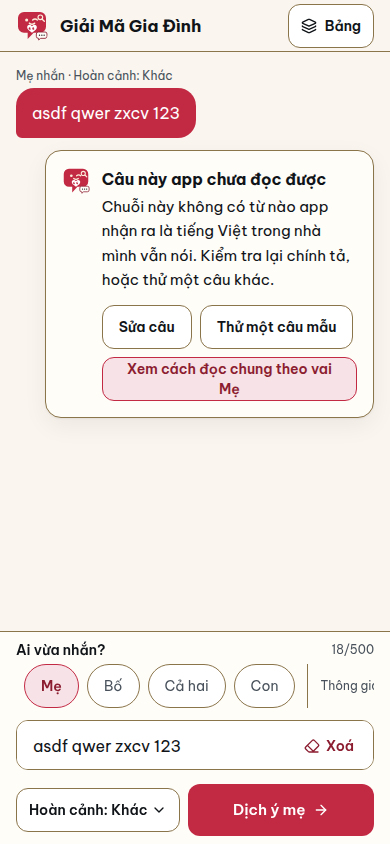
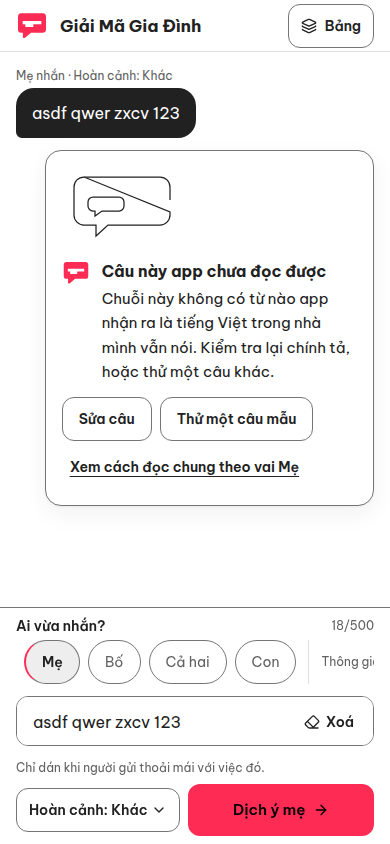
docs: screenshot pack re-shot on live v1.4.1 + README label fixes (S-1/S-2)

diff --git a/README.md b/README.md
@@ -38,7 +38,7 @@ tiếng Việt, deterministic** — không gọi AI bên ngoài, không cần đ
 
 ## 📸 Screenshots
 
-Ảnh chụp trực tiếp từ bản live https://dichbome.vercel.app (redesign «Sân Khấu Hội Thoại») — mọi ảnh đều là app thật đang chạy với kết quả giải mã thật trên màn hình.
+Ảnh chụp trực tiếp từ bản live https://dichbome.vercel.app (redesign V4 — accent TikTok #FE2C55 trên canvas trung tính, bản v1.4.1) — mọi ảnh đều là app thật đang chạy với kết quả giải mã thật trên màn hình.
 
 ![Sân khấu hội thoại trên mobile: bong bóng câu gốc và phiếu giải mã có nhãn nguồn “Máy chủ”, ý thật, điều mẹ muốn nghe và mức căng thẳng 3/5](docs/screenshots/dichbome-mobile.png)
 
@@ -46,7 +46,7 @@ _Phiếu giải mã ngay dưới bong bóng câu gốc: nhãn nguồn cho biết
 
 ![Bản desktop: sân khấu giải mã bên trái, Bảng (câu mẫu, đã lưu, lịch sử) cố định ở cột phải](docs/screenshots/dichbome-desktop.png)
 
-_Desktop: sân khấu ở giữa, cột Bảng bên phải luôn hiện thư viện câu mẫu và các tab Đã lưu / Lịch sử._
+_Desktop: sân khấu bên trái, cột Bảng bên phải luôn hiện thư viện câu mẫu và các tab Đã lưu / Lịch sử._
 
 ![Phiếu giải mã cho câu của mẹ chồng trong hoàn cảnh ở chung, mức căng thẳng 1/5](docs/screenshots/gallery-01-phieu-giai-ma-me-chong.png)
 
